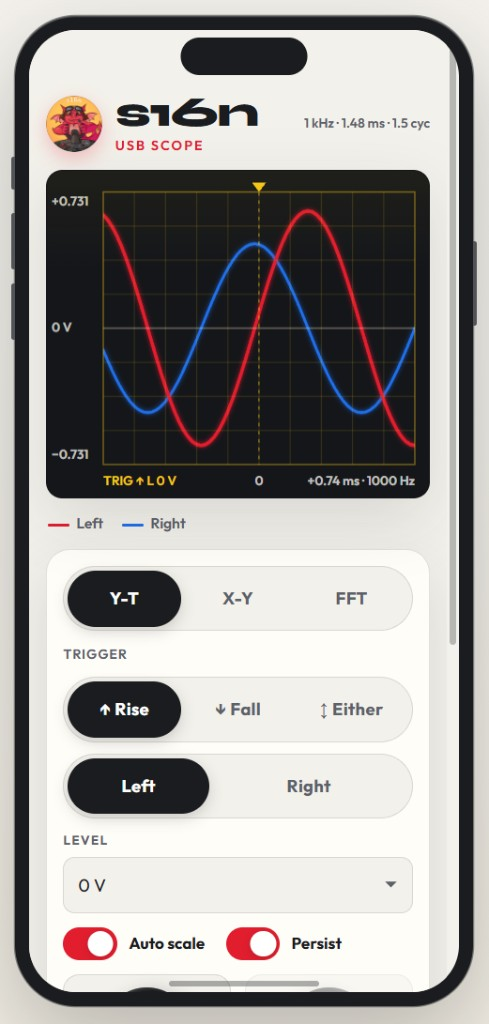
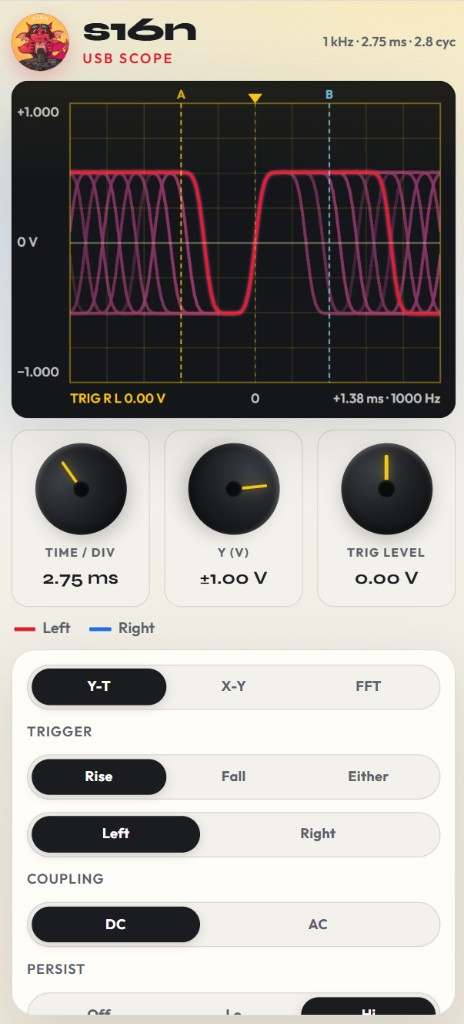
fix: put new phone shot on USB Scope phone image
Restore the desktop screenshot that was overwritten by mistake.

diff --git a/projects/usb-scope.md b/projects/usb-scope.md
@@ -37,4 +37,4 @@ A browser oscilloscope and spectrum analyzer for USB audio inputs. Plug in a USB
 
 ![s16n USB Scope](/assets/images/turntable-audio/scope.png){: .center-image .small-image }
 
-![USB Scope with persist and A/B cursors](/assets/images/turntable-audio/scope-cd-rf-eye.png){: .center-image .small-image }
+![USB Scope with persist and Save 10s video](/assets/images/turntable-audio/scope-cd-rf-eye.png){: .center-image }
